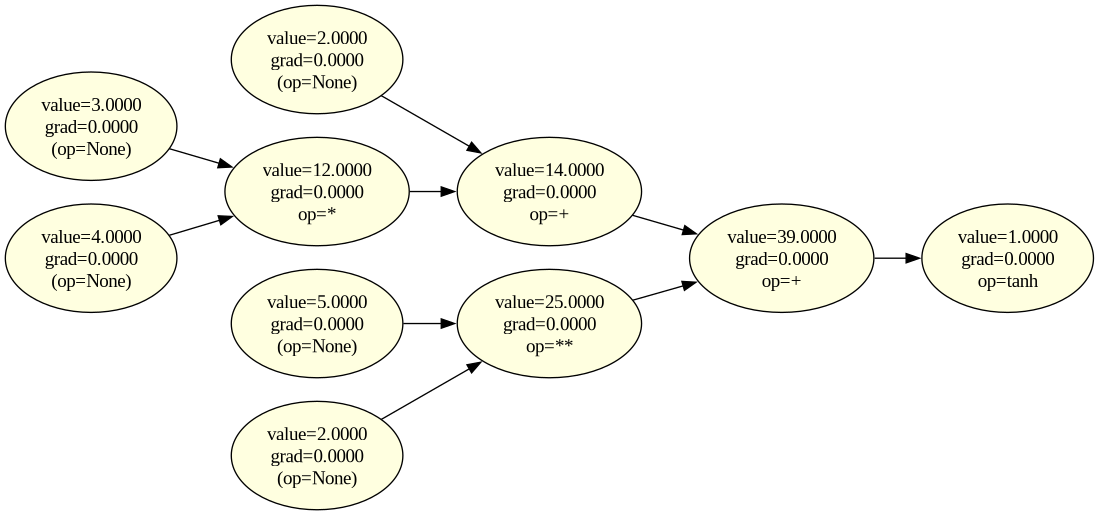
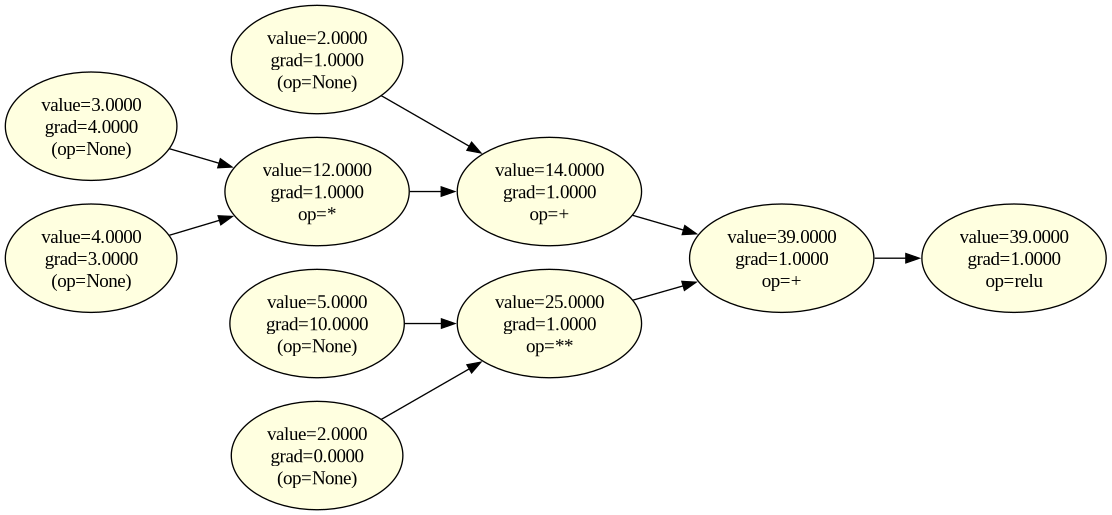
Add relu

diff --git a/1/main.py b/1/main.py
@@ -55,6 +55,9 @@ class Value:
     def tanh(self):
         return Value(tanh(self.value), (self,), op='tanh') 
 
+    def relu(self):
+        return Value(max(0, self.value), (self,), op='relu')
+
     def backward(self, init=False):
         if init:
             self.grad = 1.0
@@ -71,9 +74,13 @@ class Value:
                 parent.backward()
         elif self.op == "**":
             self.parents[0].grad += self.grad * (self.parents[1].value * self.parents[0].value ** (self.parents[1].value - 1)) 
-            self.parent[0].backward()
+            self.parents[0].backward()
         elif self.op == 'tanh':
             self.parents[0].grad += self.grad * (1 - tanh(self.parents[0].value) ** 2)
+            self.parents[0].backward()
+        elif self.op == 'relu':
+            if self.parents[0].value > 0:
+                self.parents[0].grad += self.grad
             self.parents[0].backward()
 
     def reset_grad(self):
@@ -83,6 +90,7 @@ class Value:
 
 
 # Example usage
-a = (Value(2.0) + Value(3.0) * Value(4.0) + Value(5.0) ** Value(2.0)).tanh() 
+a = (Value(2.0) + Value(3.0) * Value(4.0) + Value(5.0) ** Value(2.0)).relu() 
+a.backward(init=True)
 graph = visualize_value(a)
 graph.render('value_graph', view=True)
